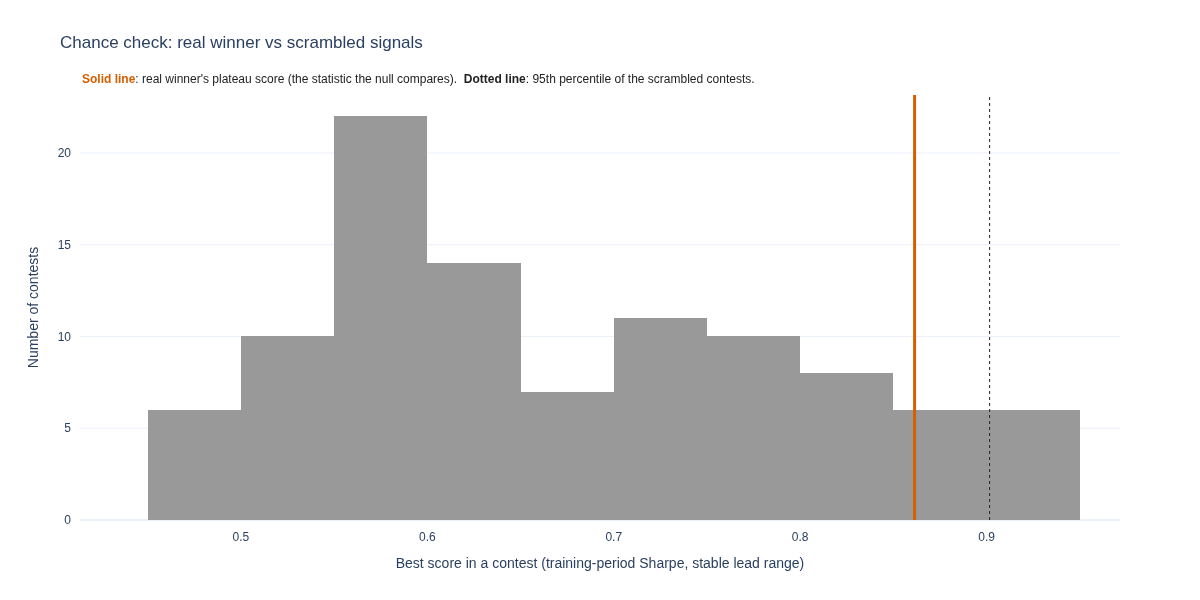
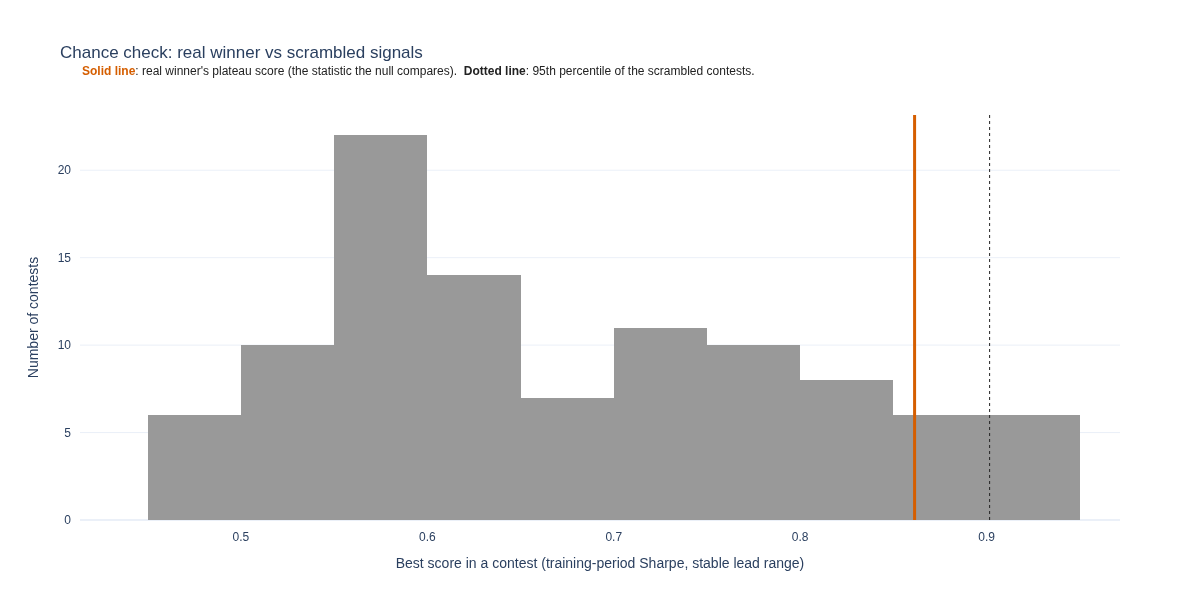
QA EF + umcsent_spy + retail fixes: clause-scoped legacy label, single-track wording, deployed signal panel
Gate (QA EF):
- E1: a legacy / raw label covers only its own clause again (sentence scope exempted a later clause
  claiming a stale published Sharpe or an OOS objective); QA's two cases are regressions that fail.
- E2: swapped() is field-bound when values coincide (X a buy-and-hold value, Y a strategy value of
  that buy-and-hold field's own scope -> reported). E3: LEAD and SHARPE now use the same clause scope.
Templates:
- Single-track pairs (umcsent_spy HIGH): shared text follows track_policy - signal legend/caption,
  chance-check text, badge rule and suggestion line, chip tooltip, cross-track row label and the
  lead-plateau legend ("Revised values (no archive)") never say "as known at"; page-text test.
- Phase B signal panel (QA EF F2/F3): axis clipped (and said) when a spike flattens the threshold;
  NBER shading, indexed target price and "Why this matters" restored; short y-axis title.
- Trade-log counting rule in the pair's period unit (F1); chance-chart key line above the plot
  area (F5); R7.1 floor parenthetical only on a pass (F6).
- Retail (QA nomain): no "Unranked - Unranked" repetition; hindsight rule card shows the full rule.
Harness: a pair may declare LEGACY_UNPUBLISHED columns; previous_* from them is None (umcsent_spy:
the 20260912 is_sharpe column held OOS values).
Pilots' chance charts re-rendered under the boot.

Claude-Session: https://claude.ai/code/session_013QJi3cY4HgnCo3223v9q3m

diff --git a/app/components/probability_engine_panel.py b/app/components/probability_engine_panel.py
@@ -431,41 +431,81 @@ _RULE_WORDS = {"gte": "at or above", "gt": "above", "lte": "at or below", "lt": 
 
 
 def _render_deployed_signal(pair_id: str, winner: dict, sig: pd.DataFrame, p2_range: bool) -> None:
-    """Phase B Signal Monitoring chart: the winning signal as the rule used it at each rebalance date (as known
-    at the time, lagged by the lead) against the threshold the rule compared it with at that date, with the
-    test period shaded. Replaces the revised, unlagged signal of the legacy panel (QA B1 nhs F2)."""
+    """Phase B Signal Monitoring chart: the winning signal as the rule used it at each rebalance date (lagged by the
+    lead, on the track's own data basis) against the threshold it was compared with at that date; test period,
+    NBER recessions and the target's indexed price shaded / overlaid; the axis clipped (and said so) when a spike
+    would flatten the threshold (QA B1 nhs F2, QA EF F2/F3; single no-archive pairs never say 'as known at')."""
     target = winner.get("target_symbol", "SPY")
     lead, unit = winner.get("lead_value"), {"days": "trading days", "months": "months", "quarters": "quarters"}.get(
         str(winner.get("lead_unit", "")).lower(), "periods")
     rule = _RULE_WORDS.get(str(winner.get("threshold_rule", "")).lower())
-    name = str(winner.get("signal_display_name") or winner.get("signal_code") or "Signal")
+    policy = str(winner.get("track_policy", ""))
+    basis = ("as revised today, no archive" if policy == "single_revised_no_archive" else
+             "market data" if policy == "single_market" else "as known at each date")
+    short = str(winner.get("signal_code") or "Signal")
+    name = str(winner.get("signal_display_name") or short)
     s = sig["signal"].astype(float)
     first = s.first_valid_index()
     if first is None:
         st.info("The rule's signal is undefined over the whole sample, so there is nothing to plot.")
         return
     d = sig.loc[first:]
-    if p2_range:     # a range-sized rule's signal column is the reading's place in its trailing range (0-1)
+    if p2_range:     # a range-sized rule's signal column is the reading's place in its trailing range
         name = f"Place of the {name} in its trailing range (bottom to top)"
     fig = go.Figure()
     fig.add_trace(go.Scatter(x=d.index, y=d["signal"], mode="lines", line=dict(color="#0072B2", width=1.6),
-                             name=f"{name} (as known at each date, lead {lead} {unit})"))
+                             name=f"{name} ({basis}, lead {lead} {unit})"))
     thr = d["threshold"].astype(float) if "threshold" in d else None
-    if thr is not None and thr.notna().any() and not p2_range:
+    has_thr = thr is not None and thr.notna().any() and not p2_range
+    if has_thr:
         fig.add_trace(go.Scatter(x=d.index, y=thr, mode="lines", line=dict(color="#D55E00", width=1.4, dash="dot"),
                                  name=(f"Threshold at each date: long {target} when the signal is {rule} it"
                                        if rule else "Threshold at each date")))
+    price = _load_target_price_overlay(pair_id, target)
+    if price is not None:
+        px = price.loc[(price.index >= d.index.min()) & (price.index <= d.index.max())]
+        if len(px) > 1:
+            fig.add_trace(go.Scatter(x=px.index, y=(px / px.iloc[0] * 100.0).values, mode="lines", yaxis="y2",
+                                     name=f"{target} price (indexed)", line=dict(color="#999999", width=1.0)))
+    for b0, b1 in (("2001-03-01", "2001-11-30"), ("2007-12-01", "2009-06-30"), ("2020-02-01", "2020-04-30")):
+        if pd.Timestamp(b1) >= d.index.min():
+            fig.add_vrect(x0=b0, x1=b1, fillcolor="#999999", opacity=0.18, line_width=0)
+    fig.add_trace(go.Scatter(x=[None], y=[None], mode="markers", name="NBER recession",
+                             marker=dict(size=12, color="rgba(153,153,153,0.35)", symbol="square"), hoverinfo="skip"))
     oos = pd.Timestamp(str(winner.get("oos_period_start"))[:10]) if winner.get("oos_period_start") else None
     if oos is not None:
-        fig.add_vrect(x0=oos, x1=d.index.max(), fillcolor="#999999", opacity=0.12, line_width=0,
+        fig.add_vrect(x0=oos, x1=d.index.max(), fillcolor="#56B4E9", opacity=0.08, line_width=0,
                       annotation_text="Test period", annotation_position="top left")
-    fig.update_layout(template="plotly_white", height=380, margin=dict(t=40, b=40),
-                      legend=dict(orientation="h", yanchor="top", y=-0.15, x=0),
-                      yaxis_title="Place in trailing range (bottom to top)" if p2_range else name, xaxis_title=None)
+    v = d["signal"].astype(float).dropna()
+    if has_thr:
+        v = pd.concat([v, thr.dropna()])
+    if len(v) > 20:      # a spike (unrate's 2020 Sahm reading) would flatten the threshold and every crossing
+        lo, hi = float(v.quantile(0.02)), float(v.quantile(0.98))
+        if hi > lo and (float(v.max()) - lo > 1.5 * (hi - lo) or hi - float(v.min()) > 1.5 * (hi - lo)):
+            pad = 0.08 * (hi - lo)
+            fig.update_yaxes(range=[lo - pad, hi + pad])
+            fig.add_annotation(text="Axis clipped so the threshold and crossings stay readable; the most extreme "
+                                    "readings run off the chart.", xref="paper", yref="paper", x=1, y=1.01,
+                               xanchor="right", yanchor="bottom", showarrow=False, font=dict(size=10, color="#666666"))
+    fig.update_layout(template="plotly_white", height=420, margin=dict(t=40, b=40),
+                      legend=dict(orientation="h", yanchor="top", y=-0.12, x=0),
+                      yaxis_title="Range position" if p2_range else short, xaxis_title=None,
+                      yaxis2=dict(title=f"{target} indexed price", overlaying="y", side="right", showgrid=False))
     st.plotly_chart(fig, use_container_width=True, config={"displayModeBar": False})
-    st.caption("Source: the values the rule actually compared at each rebalance date (the harness's strategy "
-               "returns file for the as-known-at-the-time track), so the line is lagged by the lead and uses "
-               "each date's published reading, not today's revised series.")
+    src = ("the reading published by each date" if basis.startswith("as known") else
+           "today's revised values (no archive of earlier values exists, so this may include hindsight)"
+           if policy == "single_revised_no_archive" else "market data")
+    st.caption(f"Source: the values the rule actually compared at each rebalance date (the harness's strategy returns "
+               f"file), lagged by the lead and built from {src}.")
+    if p2_range:
+        why = (f"exposure is proportional to where the reading sits in its own trailing range; there is no "
+               "threshold to cross.")
+    elif has_thr:
+        why = (f"the rule holds {target} when the signal is {rule or 'on the long side of'} the threshold of that "
+               "date and cash otherwise; the threshold line moves when it is a rolling boundary.")
+    else:
+        why = "the signal drives the position; see the Strategy Summary for the exact rule."
+    st.caption(f"Why this matters: {why}")
 
 
 def render_probability_engine_panel(pair_id: str) -> None:
@@ -542,8 +582,11 @@ def render_probability_engine_panel(pair_id: str) -> None:
     )
     from components.provenance import is_phase_b as _is_pb
     if _is_pb(pair_id):          # the deployed-signal chart has no near-threshold zone; say what it does show
-        panel_caption = ("What this shows: the winning signal exactly as the rule used it at each date (the reading "
-                         "published by then, lagged by the lead)"
+        _src = ("today's revised value (no archive of earlier values)"
+                if winner.get("track_policy") == "single_revised_no_archive" else
+                "the market value" if winner.get("track_policy") == "single_market" else "the reading published by then")
+        panel_caption = ("What this shows: the winning signal exactly as the rule used it at each date "
+                         f"({_src}, lagged by the lead)"
                          + (", which sizes the position by its place in its trailing range (no threshold)."
                             if _p2_range_hdr else ", against the threshold it was compared with at that date."))
     st.markdown(f"### {panel_title}")

diff --git a/app/components/two_track.py b/app/components/two_track.py
@@ -34,8 +34,19 @@ STRIP = {
                           "No archive of earlier values exists for this source, so we cannot show what was known at "
                           "the time. Results may include hindsight from later revisions."),
 }
+BASIS = {          # how each data basis is named in shared text (single-track pairs never say 'as known at')
+    "both": "as known at each date", "rt_insufficient": "as known at each date",
+    "single_market": "market data, which are not revised",
+    "single_no_archive": "as revised today (no archive of earlier values; may include hindsight)",
+}
+RESULT = {"both": "as-known-at-the-time result", "rt_insufficient": "as-known-at-the-time result",
+          "single_market": "market-data result",
+          "single_no_archive": "as-revised-today result (no archive of earlier values; may include hindsight)"}
 TIPS = {
     "main": "The indicator values as they were published at each date, before later revisions.",
+    "single_market": "Market prices, which are not revised after publication.",
+    "single_no_archive": "Today's revised values: no archive of earlier values exists for this source, so results "
+                         "may include hindsight from later revisions.",
     "plateau": "The winner's lead sits in a run of three neighbouring leads that all scored well in training.",
     "chance": "Share of contests run on scrambled (time-shifted) indicator data whose best score the real winner beat.",
 }
@@ -130,8 +141,8 @@ def render_no_main_headline(pair_id: str, target: str = "SPY") -> None:
              delta=f"buy-and-hold: {b['ann_return']:.1%}"),
         dict(off, label="Hindsight max drawdown (revised data)", value=f"{w['oos_max_drawdown']:.1%}",
              delta=f"buy-and-hold: {b['max_drawdown']:.1%}"),
-        dict(off, label="Hindsight rule (revised data)", value=f"{w['signal']}",
-             delta=f"lead {P.field_text(w, 'lead')} {_lead_unit(c)}".strip()),
+        dict(off, label="Hindsight rule (revised data)", value=f"{w['signal']}",     # the full rule (QA nomain)
+             delta=f"{w['threshold']} / {w['strategy']} / lead {P.field_text(w, 'lead')} {_lead_unit(c)}".strip()),
     ])
 NO_MAIN_EXECUTE = ("There is no rule on data as known at the time, so there is nothing to execute. The hindsight rule "
                    "found on today's revised data is not an execution plan.")
@@ -188,7 +199,8 @@ def render_chips(ts: dict, winner: dict) -> None:
     with cols[0]:
         _badge(MAIN_LABEL if ts["track_state"] == "both" else
                {"single_market": "Market data (one track)", "single_no_archive": "As revised today only",
-                "rt_insufficient": "No winner as known at the time"}[ts["track_state"]], TIPS["main"])
+                "rt_insufficient": "No winner as known at the time"}[ts["track_state"]],
+               TIPS.get(ts["track_state"], TIPS["main"]))
     with cols[1]:
         leads = plat.get("leads") or []
         if leads:
@@ -362,11 +374,13 @@ def render_cross_eval_table(pair_id: str, ts: dict, ws: dict) -> None:
     rows = []
     same = bool(main and main.get("eligible") and comp and comp.get("eligible")
                 and main["winner"].get("key") == comp["winner"].get("key"))
+    main_label = {"single_no_archive": "As revised today (no archive)",
+                  "single_market": "Market data"}.get(ts["track_state"], MAIN_LABEL)   # single tracks: umcsent_spy QA
     if same:     # both tracks pick the same rule: its two own rows already show it on both data (no duplicates)
         rows = [own_row(main, MAIN_LABEL, ""), own_row(comp, REV_LABEL, "hindsight_")]
     else:
         if main and main.get("eligible"):
-            rows.append(own_row(main, MAIN_LABEL, ""))
+            rows.append(own_row(main, main_label, ""))
             if comp:
                 rows.append(cross_row(main, REV_LABEL, "main_winner_on_revised", "hindsight_"))
         if comp and comp.get("eligible"):
@@ -408,8 +422,9 @@ def render_chance_check(pair_id: str, ts: dict) -> None:
                                 "The real winner's plateau score (the statistic the scrambled contests are compared on) "
                                 f"ranks at the {_ordinal(round(nt['winner_percentile'] * 100))} percentile of "
                                 f"{nt['n_draws']:,} scrambled-signal contests")
-                               + " (the indicator, as known at each date, shifted against the returns by a fixed "
-                                 "number of periods, wrapping around once; same selection rule)."
+                               + f" (the indicator, {BASIS.get(ts.get('track_state'), BASIS['both'])}, shifted "
+                                 "against the returns by a fixed number of periods, wrapping around once; same "
+                                 "selection rule)."
                                + oos_rank_note(nt)
                                + draws_note(nt) + coarse_note(pair_id, nt) + is_window_note(pair_id)
                                + r71_note(pair_id) + comparison_chance_note(pair_id, ts)))
@@ -547,7 +562,7 @@ def r71_note(pair_id: str, track: str = "main", label: str = "Calibration check 
     out = (f" {label}: the scrambled contests' winners have a mean timing Sharpe of {m:.3f}"
            f" (dependence-aware standard error {se:.3f}) against a tolerance of {tol:.3f} in absolute value;"
            f" the check {'passes' if bool(ok) else 'does not pass'}")
-    if float(se) * 2 < float(tol):
+    if float(se) * 2 < float(tol) and bool(ok):    # QA EF F6: not appended to a failure, where it read as an excuse
         out += " (the tolerance is set by its fixed floor, not by the standard error)"
     return out + "."
 
@@ -625,10 +640,16 @@ BADGE_RULE = ("Badge rule (as-known-at-the-time result only): Candidate when the
               "is below zero.")
 
 
+def badge_rule(state: str) -> str:
+    """BADGE_RULE naming the pair's own data basis (single-track pairs: umcsent_spy QA)."""
+    return BADGE_RULE.replace("as-known-at-the-time result", RESULT.get(state, RESULT["both"]))
+
+
 def render_badge_note(ts: dict) -> None:
     """Line next to the Candidate / Watchlist / Reject badge (section 7b)."""
     if ts["track_state"] == "rt_insufficient":
-        st.caption("Unranked: there is no rule on data as known at the time, so no Candidate, Watchlist or Reject "
-                   "status.")
+        st.caption("There is no rule on data as known at the time, so this pair has no Candidate, Watchlist or "
+                   "Reject status.")
     else:
-        st.caption("Suggestion from the as-known-at-the-time result; you judge. " + BADGE_RULE)
+        st.caption(f"Suggestion from the {RESULT.get(ts['track_state'], RESULT['both'])}; you judge. "
+                   + badge_rule(ts["track_state"]))

diff --git a/scripts/harness/charts.py b/scripts/harness/charts.py
@@ -70,7 +70,9 @@ def lead_plateau(pair: str, tag: str, lead_unit: str) -> str | None:
     x = [pos[L] for L in leads]
     hover = [f"Lead {L}<br>Score {s:.2f}<br>Inside stable lead range: {'yes' if p else 'no'}"
              for L, s, p in zip(leads, main["is_sharpe"], main["in_plateau"])]
-    fig.add_trace(go.Scatter(x=x, y=main["is_sharpe"], mode="lines+markers", name=LABEL.get(track, track),
+    # a single no-archive track is revised values with no archive (umcsent_spy QA), not a hindsight comparison
+    main_label = "Revised values (no archive)" if track == "revised" and hind is None else LABEL.get(track, track)
+    fig.add_trace(go.Scatter(x=x, y=main["is_sharpe"], mode="lines+markers", name=main_label,
                              line=dict(color=C_MAIN, width=2), marker=dict(symbol="circle", size=8),
                              hovertext=hover, hoverinfo="text"))
     if hind is not None and not hind.empty:
@@ -130,7 +132,7 @@ def chance_check(pair: str, tag: str) -> str | None:
     fig.add_vline(x=q95, line_color=C_TEXT, line_width=1, line_dash="dot")
     # one key line above the plot instead of labels on the lines: nothing is clipped at the edge, drawn over the bars
     # or stacked when the two lines are close (QA sloos F3)
-    fig.add_annotation(x=0, xref="paper", y=1.06, yref="paper", xanchor="left", showarrow=False,
+    fig.add_annotation(x=0, xref="paper", y=1.13, yref="paper", xanchor="left", showarrow=False,
                        font=dict(size=12, color=C_TEXT),
                        text=(f"<span style='color:{C_REV}'><b>Solid line</b></span>: real winner's plateau score (the "
                              "statistic the null compares).  <b>Dotted line</b>: 95th percentile of the scrambled "
@@ -146,7 +148,7 @@ def chance_check(pair: str, tag: str) -> str | None:
     else:
         cap = (f"The real winner's plateau score ranks at the {ordinal(round(pct * 100))} percentile of {k:,} "
                "scrambled-signal contests.")
-    fig.update_layout(template="plotly_white", height=400, margin=dict(t=95),
+    fig.update_layout(template="plotly_white", height=410, margin=dict(t=115),
                       title="Chance check: real winner vs scrambled signals",
                       xaxis_title="Best score in a contest (training-period Sharpe, stable lead range)",
                       yaxis_title="Number of contests", showlegend=False)

diff --git a/app/components/page_templates.py b/app/components/page_templates.py
@@ -1930,6 +1930,10 @@ def _render_executive_confidence_summary(summary: dict) -> None:
         _badge = f"**Status: {status}**" if status else ""
         _line = f"{_badge}"
         if status_detail:
+            _sd = str(status_detail)
+            if status and _sd.lower().startswith(status.lower()):      # "Unranked — Unranked: ..." (QA nomain)
+                _sd = _sd[len(status):].lstrip(" :—-").strip()
+                status_detail = _sd[:1].upper() + _sd[1:] if _sd else status_detail
             _line = f"{_badge} — {status_detail}" if _badge else status_detail
         if _status_lower in ("reject", "rejected"):
             st.error(_line)
@@ -2260,9 +2264,16 @@ def _render_trade_log_block(pair_id: str, config: Any) -> None:
     # ---- Step 3: two-file model explanation (Ray stub) ----
     st.markdown(_TRADE_LOG_TWO_FILE_MODEL_MD)
     if _P.is_phase_b(pair_id):     # QA B1 import_price F4: say which log rows the headline trade count covers
+        try:
+            _lu = json.loads((_REPO_ROOT / "results" / pair_id / "winner_summary.json").read_text())
+            _lu = _lu.get("lead_unit") or next((t.get("lead_unit") for t in (_lu.get("tracks") or {}).values()
+                                                if t and t.get("lead_unit")), None)
+        except (OSError, ValueError):
+            _lu = None
+        _per = {"quarters": "quarter", "days": "trading day"}.get(_lu, "month")     # QA EF F1: units by frequency
         st.caption("Counting rule: the headline number of position changes and the turnover count the changes "
-                   "between consecutive test-period months. A change made on the first test-period month (from "
-                   "the last training month's position) is a row of this log but is not in that count, so "
+                   f"between consecutive test-period {_per}s. A change made on the first test-period {_per} (from "
+                   f"the last training {_per}'s position) is a row of this log but is not in that count, so "
                    "counting log rows dated in the test period can give one more.")
 
     # ---- Step 4: column glossary: the columns the broker-style log actually has (QA pilot-visual M4) ----

diff --git a/scripts/gate_structured_prose.py b/scripts/gate_structured_prose.py
@@ -198,13 +198,10 @@ def sentences(text: str, clauses: bool = True) -> list[str]:
 
 
 def _units(text: str) -> list[tuple[str, bool]]:
-    """(clause, legacy): a legacy / raw label anywhere in a sentence covers all of that sentence's clauses (QA B1
-    consumer_sentiment: a label in one clause did not cover the next clause -> false LEAD / SHARPE findings)."""
-    out = []
-    for sent in sentences(text, clauses=False):
-        lg = bool(LEGACY_LABEL.search(sent))
-        out += [(c, lg) for c in sentences(sent)]
-    return out
+    """(clause, legacy): a legacy / raw label covers only the clause that carries it (QA EF E1: a sentence-wide
+    scope exempted a later clause claiming a stale published value for the current winner). A sentence whose
+    later clause refers back to a previous rule must repeat the cue in that clause."""
+    return [(c, bool(LEGACY_LABEL.search(c))) for c in sentences(text)]
 
 
 def check_text(text: str, f: dict, where: str) -> list[str]:
@@ -447,7 +444,11 @@ def swapped(text: str, f: dict, where: str) -> list[str]:
             scopes = {_bh_scope(k) for k in xs}
             allowed = [(k, v) for k, v in bh_items if not scopes or _bh_scope(k) in scopes]
             y_ok = bool(hits(y, allowed))
-            x_is_bh = bool(hits(x, bh_items)) and not xs
+            # field-bound reverse reading (QA EF E2): X is a buy-and-hold value and Y a strategy value of that
+            # buy-and-hold field's own scope -> the sentence reads swapped even when X also matches some other field
+            xb = hits(x, bh_items)
+            rev = {_bh_scope(k) for k in xb} & {_bh_scope(k) for k in hits(y, strat)}
+            x_is_bh = bool(xb) and (not xs or bool(rev))
             if not y_ok or (x_is_bh and abs(val(x) - val(y)) > 1e-9):
                 out.append(f"SWAPPED {where}: \"{m.group(0)}\" — strategy and buy-and-hold values do not match their "
                            "fields (same track, period and kind)")

diff --git a/scripts/tests/test_gate_structured_prose.py b/scripts/tests/test_gate_structured_prose.py
@@ -202,6 +202,21 @@ def test_swapped_compares_buy_and_hold_on_the_same_track_period_and_kind():
     assert g.swapped("Test-period Sharpe 0.95 (buy-and-hold SPY: 0.71).", f, "x")
 
 
-def test_a_legacy_label_covers_every_clause_of_its_sentence():
-    units = g._units("The previous rule (published earlier) used lead 1; it scored 0.18. Now lead 8; Sharpe 0.71.")
-    assert [lg for _c, lg in units] == [True, True, False, False]
+def test_a_legacy_label_covers_only_its_own_clause():
+    # QA EF E1: a sentence-wide legacy scope exempted a later clause claiming a stale published value as current
+    f = {"oos_sharpe": 0.385, "lead": 4, "_lead_unit": "months", "_objective": "max_is_sharpe_lead_plateau_w3",
+         "_legacy_oos_sharpe": [1.43], "_legacy_lead": []}
+    bad = g.check_text("The earlier rule was published at Sharpe 1.43; the current winner earns Sharpe 1.43.", f, "x")
+    assert any(b.startswith("SHARPE") for b in bad)
+    bad = g.check_text("Previously the winner was selected on out-of-sample Sharpe; the winner is selected on "
+                       "out-of-sample Sharpe.", f, "x")
+    assert any(b.startswith("OBJECTIVE") for b in bad)
+    assert [lg for _c, lg in g._units("The previous rule (published earlier) used lead 1; it scored 0.18.")] == \
+        [True, False]
+
+
+def test_swapped_is_field_bound_when_values_coincide():
+    # QA EF E2: X equals a buy-and-hold field AND another strategy field; Y equals that buy-and-hold field's own
+    # strategy value -> the swap is still reported
+    f = {"oos_sharpe": 0.71, "bh_oos_sharpe": 0.95, "comparison_oos_sharpe": 0.95, "comparison_bh_oos_sharpe": 0.71}
+    assert g.swapped("Sharpe 0.95 versus 0.71 for buy-and-hold.", f, "x")

diff --git a/scripts/tests/test_no_main_winner.py b/scripts/tests/test_no_main_winner.py
@@ -142,3 +142,17 @@ def test_structured_prose_knows_the_previous_rule_without_a_selection_block():
                                  "previous_lead": {"value": 6, "text": "6"}})
     f = gsp.fields_from_summary(ws)
     assert 0.7312 in f["_legacy_oos_sharpe"] and 0.8905 in f["_legacy_oos_sharpe"] and 6 in f["_legacy_lead"]
+
+
+SINGLE_NO_ARCHIVE = sorted(p.parent.name for p in (ROOT / "results").glob("*/winner_summary.json")
+                           if json.loads(p.read_text()).get("track_policy") == "single_revised_no_archive")
+
+
+@pytest.mark.parametrize("pair", SINGLE_NO_ARCHIVE or [pytest.param(None, marks=pytest.mark.skip(
+    reason="no single_revised_no_archive pair on this branch (ism_mfg / umcsent_spy / cement land with their merges)"))])
+def test_single_track_no_archive_pages_never_claim_as_known_at(pair):
+    # umcsent_spy QA HIGH: shared text said "as known at each date / at the time" on revised-only pairs
+    import re
+    txt = "\n".join(_page_text(pair).values())
+    assert not re.search(r"\bas[- ]known[- ]at", txt, re.I), re.search(r".{80}\bas[- ]known[- ]at.{80}", txt,
+                                                                       re.I | re.S)

diff --git a/scripts/harness/run.py b/scripts/harness/run.py
@@ -150,8 +150,12 @@ def replay_legacy(mod, tol: float = 1e-6) -> dict:
     # previous_* report what was PUBLISHED (the immutable record, else the published table row), not the harness
     # replay: on the max_oos_valid path the IS columns are documented differences (QA B1 umcsent L1: replay IS
     # 0.3107 vs published 0.2825); the replay values are kept next to them for the record
+    unpublished = set(getattr(mod, "LEGACY_UNPUBLISHED", ()))
+
     def _published(col):
-        return published_value(p, pub, w, wrow, col)
+        # a legacy column the pair declares never published (umcsent_spy 20260912: its is_sharpe column held OOS
+        # values, the run had no training window) is reported as None, never as a previous figure
+        return None if col in unpublished else published_value(p, pub, w, wrow, col)
     rep["published"] = {"key": wrow["key"], "signal": str(wrow["signal"]), "threshold": str(wrow["threshold"]),
                         "strategy": str(wrow["strategy"]), "direction": str(wrow["direction"]), "lead": int(wrow["lead"]),
                         "is_sharpe": _published("is_sharpe"), "oos_sharpe": _published("oos_sharpe"),

diff --git a/scripts/tests/test_harness_trade_log_previous.py b/scripts/tests/test_harness_trade_log_previous.py
@@ -94,3 +94,16 @@ def test_position_chart_keeps_undefined_months_as_cash(tmp_path):
                                                                          index=False)
     pos, _f = _deployed_positions(tmp_path, {})
     assert list(pos) == [100.0, 100.0, 0.0, 0.0]          # warm-up dropped, undefined tail shown at 0%
+
+
+def test_a_declared_unpublished_legacy_column_gives_no_previous_value():
+    # umcsent_spy QA: the 20260912 table's is_sharpe column held OOS Sharpes (no training window existed), so the
+    # previous rule's training Sharpe was reported as 1.43; a pair declares it LEGACY_UNPUBLISHED -> None
+    import inspect
+    from harness import run as R
+    from harness import prose
+    src = inspect.getsource(R.replay_legacy)
+    assert 'getattr(mod, "LEGACY_UNPUBLISHED", ())' in src and "None if col in unpublished" in src
+    f = prose.previous_fields({"key": "k", "signal": "s", "threshold": "t", "lead": 9, "oos_sharpe": 1.427,
+                               "is_sharpe": None, "tag": "20260912", "selection": "x"}, "months")
+    assert f["previous_is_sharpe"]["value"] is None and f["previous_is_sharpe"]["text"] == "n/a"

diff --git a/app/components/instructional_trigger_cards.py b/app/components/instructional_trigger_cards.py
@@ -523,8 +523,10 @@ def render_instructional_trigger_cards(pair_id: str) -> None:
         if _sig is not None and not _p2_range and _sig["threshold"].notna().any():
             real_slices = _find_real_crossings(_sig["signal"] - _sig["threshold"], 0.0, window=30)
             _gap = True
-            data_source_note = ("the rule's real signal history as known at each date, shown as its distance from "
-                                "that date's threshold (the crossing level is zero)")
+            _basis = {"single_revised_no_archive": "on today's revised values (no archive of earlier values)",
+                      "single_market": "on market data"}.get(str(winner.get("track_policy")), "as known at each date")
+            data_source_note = (f"the rule's real signal history {_basis}, shown as its distance from that date's "
+                                "threshold (the crossing level is zero)")
     else:
         signals_path = _latest_signals_file(pair_dir)
     if signals_path is not None and signal_column:
